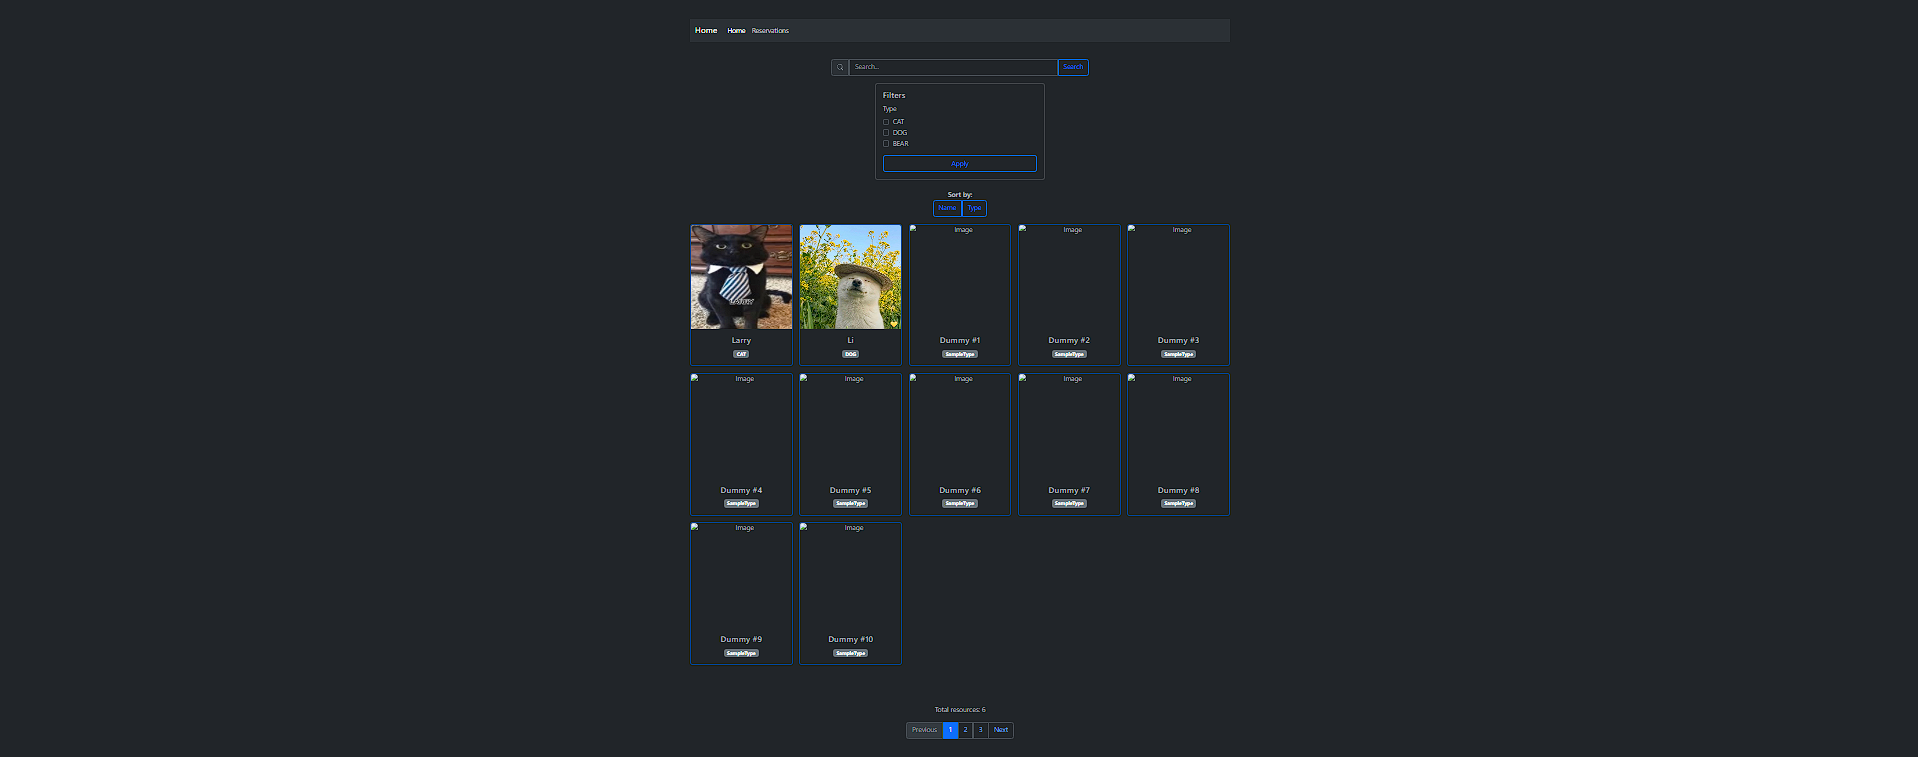
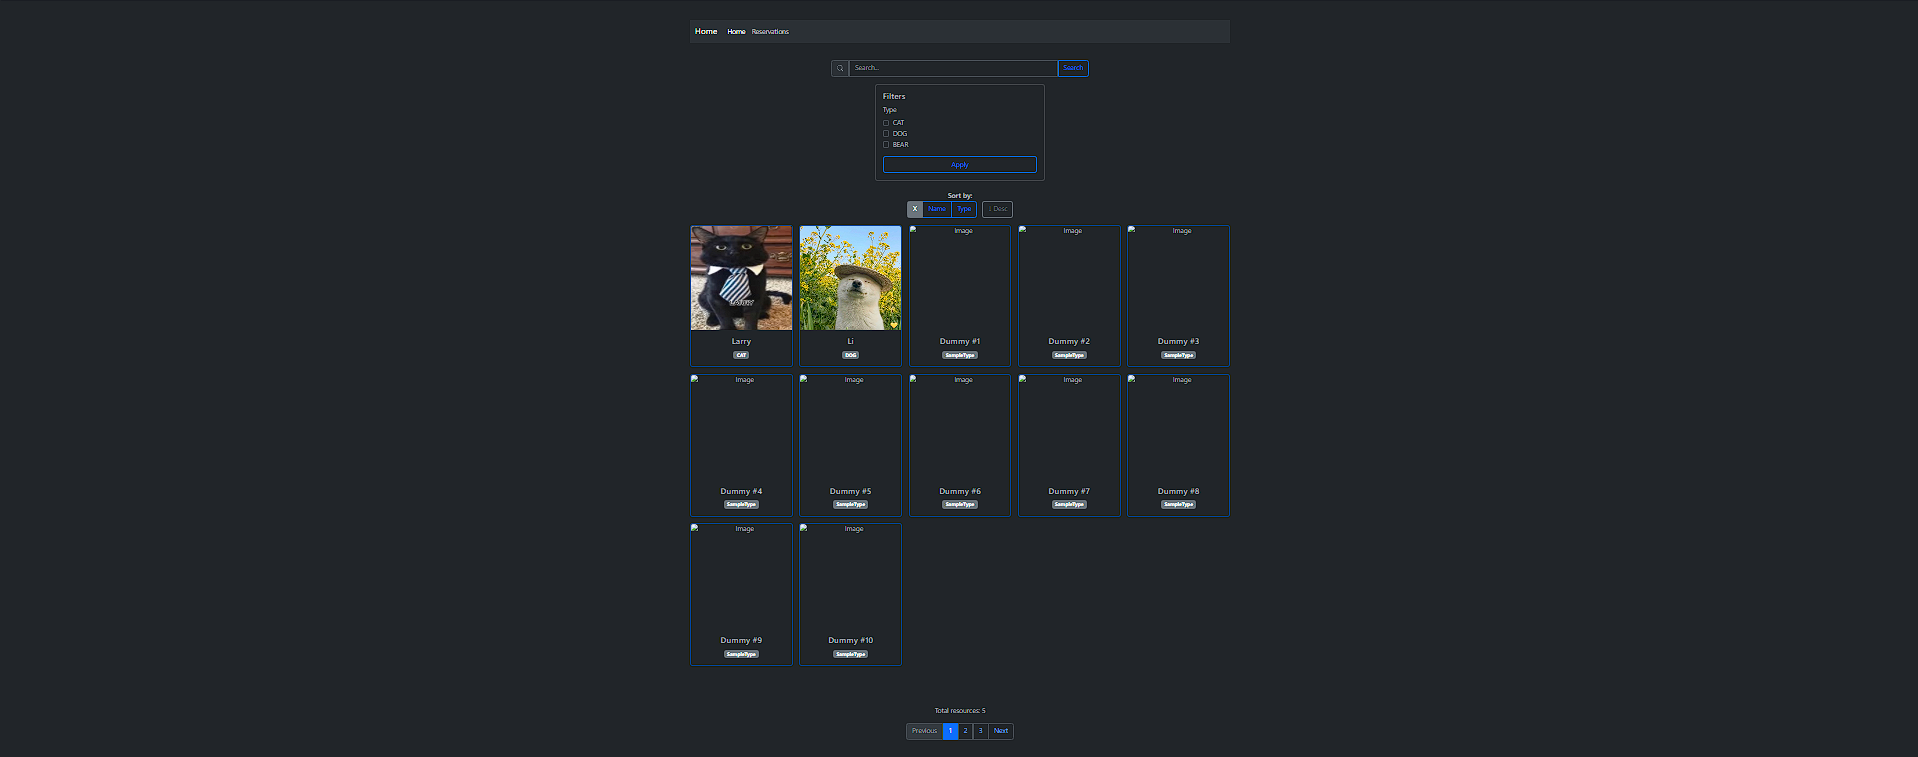
Resource service, view, controller, validator
1. Fixed bug which allowed getting <0 pages.

2. Added button for changing sort direction.

3. Added button for disabling sorting

4. Refactored resource service.

5. Refactored resource controller

6. Improved /home view by removing null parameters in the page URL.

diff --git a/src/main/resources/templates/home.html b/src/main/resources/templates/home.html
@@ -62,10 +62,13 @@
             <div class="col-md-6">
                 <form role="search">
                     <!--Other-->
-                    <input type="hidden" name="sortField" th:value="${sortField}"/>
-                    <input type="hidden" name="sortDirection" th:value="${sortDirection}"/>
+                    <input type="hidden" name="sortField" th:value="${sortField}"
+                           th:if="${sortField != null and !#strings.isEmpty(sortField)}"/>
+                    <input type="hidden" name="sortDirection" th:value="${sortDirection}"
+                           th:if="${sortDirection != null and !#strings.isEmpty(sortDirection)}"/>
                     <div th:each="type : ${types}">
-                        <input type="hidden" name="types" th:value="${type}"/>
+                        <input type="hidden" name="types" th:value="${type}"
+                               th:if="${type != null and !#strings.isEmpty(type)}"/>
                     </div>
 
                     <div class="input-group">
@@ -188,9 +191,12 @@
                     <h5>Filters</h5>
                     <form method="get" th:action="@{home}">
                         <!--Other-->
-                        <input type="hidden" name="sortField" th:value="${sortField}"/>
-                        <input type="hidden" name="sortDirection" th:value="${sortDirection}"/>
-                        <input type="hidden" name="search" th:value="${search}"/>
+                        <input type="hidden" name="sortField" th:value="${sortField}"
+                               th:if="${sortField != null and !#strings.isEmpty(sortField)}"/>
+                        <input type="hidden" name="sortDirection" th:value="${sortDirection}"
+                               th:if="${sortDirection != null and !#strings.isEmpty(sortDirection)}"/>
+                        <input type="hidden" name="search" th:value="${search}"
+                               th:if="${search != null and !#strings.isEmpty(search)}"/>
 
                         <div class="mb-2">
                             <label class="form-label">Type</label>
@@ -220,16 +226,26 @@
                     Sort by:<br>
                 </strong>
 
-                <form method="get" th:action="@{/home}">
+                <form method="get" th:action="@{/home}" id="sortForm">
 
                     <!--Other-->
-                    <input type="hidden" name="sortDirection" th:value="${sortDirection}"/>
+                    <input type="hidden" name="sortDirection" th:value="${sortDirection}"
+                           id="sortDirectionInput"/>
                     <div th:each="type : ${types}">
-                        <input type="hidden" name="types" th:value="${type}"/>
+                        <input type="hidden" name="types" th:value="${type}"
+                               th:if="${type != null and !#strings.isEmpty(type)}"/>
                     </div>
-                    <input type="hidden" name="search" th:value="${search}"/>
+                    <input type="hidden" name="search" th:value="${search}"
+                           th:if="${search != null and !#strings.isEmpty(search)}"/>
 
-                    <div class="btn-group" role="group" aria-label="Sort buttons">
+                    <div class="btn-group me-2" role="group" aria-label="Sort buttons">
+                        <!-- Reset sortField -->
+                        <input type="radio" class="btn-check" name="sortField" id="sortNone" value=""
+                               th:checked="${#strings.isEmpty(sortField)}" onchange="this.form.submit()">
+                        <label class="btn btn-outline-secondary" for="sortNone">
+                            X
+                        </label>
+
                         <input type="radio" class="btn-check" name="sortField" id="sortName" value="name"
                                th:checked="${sortField == 'name'}" onchange="this.form.submit()">
                         <label class="btn btn-outline-primary" for="sortName">Name</label>
@@ -237,6 +253,13 @@
                         <input type="radio" class="btn-check" name="sortField" id="sortType" value="type"
                                th:checked="${sortField == 'type'}" onchange="this.form.submit()">
                         <label class="btn btn-outline-primary" for="sortType">Type</label>
+                    </div>
+
+                    <div class="btn-group" role="group" aria-label="Sort direction">
+                        <button type="button" class="btn btn-outline-secondary"
+                                onclick="toggleSortDirectionAndSubmit()">
+                            <span th:text="${sortDirection == 'asc' ? '↑ Asc' : '↓ Desc'}"></span>
+                        </button>
                     </div>
                 </form>
             </div>
@@ -285,12 +308,14 @@
 <form method="get" th:action="@{/home}">
 
     <!--Other-->
-    <input type="hidden" name="sortField" th:value="${sortField}"/>
-    <input type="hidden" name="sortDirection" th:value="${sortDirection}"/>
+    <input type="hidden" name="sortField" th:value="${sortField}"
+           th:if="${sortField != null and !#strings.isEmpty(sortField)}"/>
+    <input type="hidden" name="sortDirection" th:value="${sortDirection}"
+           th:if="${sortDirection != null and !#strings.isEmpty(sortDirection)}"/>
     <div th:each="type : ${types}">
-        <input type="hidden" name="types" th:value="${type}"/>
+        <input type="hidden" name="types" th:value="${type}" th:if="${type != null and !#strings.isEmpty(type)}"/>
     </div>
-    <input type="hidden" name="search" th:value="${search}"/>
+    <input type="hidden" name="search" th:value="${search}" th:if="${search != null and !#strings.isEmpty(search)}"/>
 
     <!--Page-->
     <nav class="d-flex justify-content-center">
@@ -331,6 +356,12 @@
         });
     }
     /*]]>*/
+
+    function toggleSortDirectionAndSubmit() {
+        const input = document.getElementById('sortDirectionInput');
+        input.value = input.value === 'asc' ? 'desc' : 'asc';
+        document.getElementById('sortForm').submit();
+    }
 </script>
 </body>
 </html>

diff --git a/src/main/java/com/dunnnan/reservations/service/ResourceService.java b/src/main/java/com/dunnnan/reservations/service/ResourceService.java
@@ -134,7 +134,7 @@ public class ResourceService {
     ) {
 
         int requestedPage = page.filter(p -> p >= 0).orElse(0);
-        int requestedSize = size.orElse(paginationConfig.getDefaultPageSize());
+        int requestedSize = Math.min(size.orElse(paginationConfig.getDefaultPageSize()), paginationConfig.getMaxPageSize());
 
         // Handle Page parameters
         Sort sort = getSort(sortDirection, sortField);
@@ -142,17 +142,13 @@ public class ResourceService {
         Page<Resource> resourcePage = getResourcePage(pageable, types, search);
 
         // Handle edge cases
-        int totalPages = resourcePage.getTotalPages();
-        if (requestedPage > totalPages - 1) {
-            pageable = getPageable(totalPages - 1, requestedSize, sort);
+        int totalPages = Math.max(resourcePage.getTotalPages() - 1, 0);
+        if (requestedPage > totalPages) {
+            pageable = getPageable(totalPages, requestedSize, sort);
             return getResourcePage(pageable, types, search);
         }
 
         return resourcePage;
-    }
-
-    public String reverseDirection(String direction) {
-        return "asc".equalsIgnoreCase(direction) ? "desc" : "asc";
     }
 
     public void addResource(ResourceDto resourceDto) throws IOException {

diff --git a/src/main/java/com/dunnnan/reservations/controller/ResourceController.java b/src/main/java/com/dunnnan/reservations/controller/ResourceController.java
@@ -43,12 +43,11 @@ public class ResourceController {
             @RequestParam(name = "page") Optional<Integer> page,
             @RequestParam(name = "size") Optional<Integer> size,
             @RequestParam(name = "types") Optional<List<String>> types,
-            @RequestParam(name = "search") Optional<String> search,
-            @RequestParam(name = "typeOptions") Optional<List<String>> typeOptions
+            @RequestParam(name = "search") Optional<String> search
     ) {
 
         // Load Resource Page
-        Page<Resource> resourcePage = resourceService.  loadResourcePage(
+        Page<Resource> resourcePage = resourceService.loadResourcePage(
                 sortField, sortDirection, page, size, types, search);
 
         // Load Page Navigation parameters
@@ -65,7 +64,6 @@ public class ResourceController {
         // Sort
         model.addAttribute("sortField", sortField);
         model.addAttribute("sortDirection", sortDirection);
-        model.addAttribute("reverseSortDirection", resourceService.reverseDirection(sortDirection));
 
         // Filter
         model.addAttribute("types", types.orElse(Collections.emptyList()));
